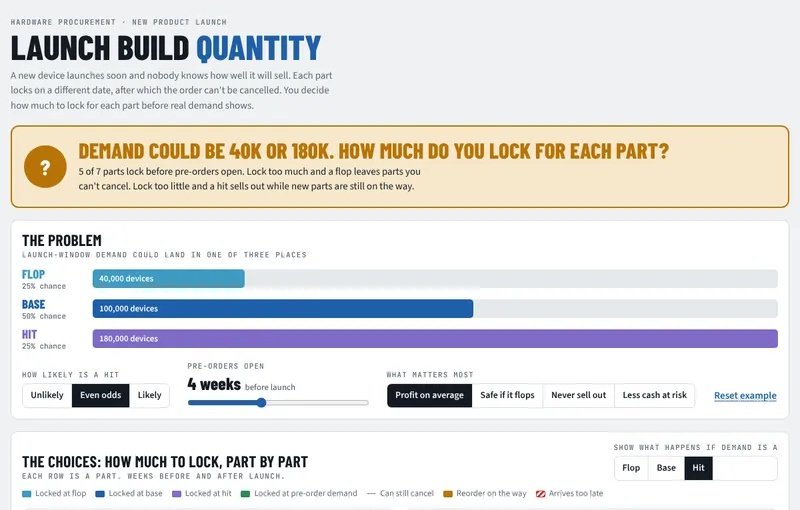
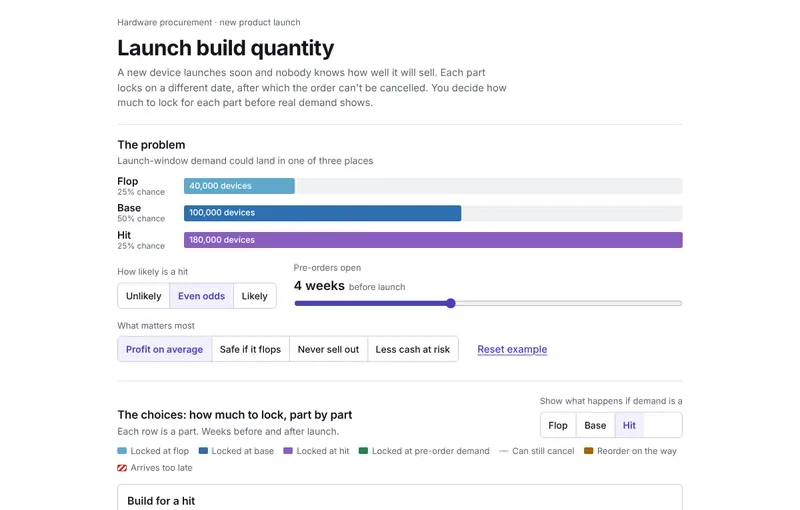
Launch build quantity: plain theme, remove top box
Claude-Session: https://claude.ai/code/session_01AxXK7Z5WHLudRwn8QagmC1

diff --git a/tools/launch-build-quantity.html b/tools/launch-build-quantity.html
@@ -9,151 +9,151 @@
 <title>Tool: Launch build quantity</title>
 <meta name="claude:viewport-fit-sides" content="cover">
 <link rel="preconnect" href="https://fonts.googleapis.com">
-<link rel="stylesheet" href="https://fonts.googleapis.com/css2?family=Barlow+Condensed:wght@600;700;800&family=Source+Sans+3:wght@400;500;600;700&family=JetBrains+Mono:wght@400;500&display=swap">
+<link rel="stylesheet" href="https://fonts.googleapis.com/css2?family=Inter:wght@400;500;600;700&display=swap">
 <style>
-/* Layout: problem (demand scenarios + key choices), then one lock-date Gantt per build plan, then the scoreboard, why, and edit tables. */
+/* Layout: one column, sections split by thin lines. The problem and key choices first, then one lock-date Gantt per plan, then the scoreboard.
+   Plain theme: one text face, 1px lines, one accent color for what is selected or can be tapped. Any other color carries data: demand levels, Gantt bars, win/lose marks. */
 :root{
-  --bg:#EEF1F3; --surface:#FFFFFF; --ink:#141B22; --muted:#5B6873; --line:#D3DAE0; --track:#E4E9ED;
-  --accent:#1F5FA8; --accent-soft:#DCE8F6;
-  --late:#C8322A; --late-soft:#F8DEDB; --warn:#B87406; --warn-soft:#F7E8CC; --ok:#2C8A55; --ok-soft:#D9EFE2;
-  --flop:#3C9BC2; --base:#1F5FA8; --hit:#7E6BC4; --exact:#2C8A55;
-  --f-display:"Barlow Condensed","Arial Narrow",Arial,sans-serif;
-  --f-body:"Source Sans 3",system-ui,-apple-system,"Segoe UI",sans-serif;
-  --f-mono:"JetBrains Mono",ui-monospace,Menlo,Consolas,monospace;
+  --bg:#FFFFFF; --surface:#FFFFFF; --ink:#15161C; --muted:#5F6370; --line:#E2E3E9; --edge:#C9CBD4; --track:#F0F1F4;
+  --accent:#4B40B8; --accent-soft:#F1F0FC;
+  /* data colors */
+  --late:#C2332B; --late-soft:#FBE3E1; --warn:#A86400; --warn-soft:#FBEACB; --ok:#1D8650; --ok-soft:#DDF2E6;
+  --flop:#5FA8C9; --base:#2F6FB0; --hit:#8A5CC2; --exact:#1D8650;
+  --font:"Inter",system-ui,-apple-system,"Segoe UI",Roboto,"Helvetica Neue",Arial,sans-serif;
 }
 @media (prefers-color-scheme: dark){:root:not([data-theme="light"]){
-  --bg:#0E1318; --surface:#161D24; --ink:#E5EBF0; --muted:#94A2AD; --line:#2A353F; --track:#1E2730;
-  --accent:#6FA8EA; --accent-soft:#1B2B40;
-  --late:#F06A5F; --late-soft:#3A1D1B; --warn:#E8A93A; --warn-soft:#3A2C14; --ok:#5CC98A; --ok-soft:#173226;
-  --flop:#5BB6DB; --base:#6FA8EA; --hit:#A08FE6; --exact:#5CC98A; color-scheme:dark}}
+  --bg:#101116; --surface:#101116; --ink:#ECEDF2; --muted:#9A9EAC; --line:#272932; --edge:#3B3E4B; --track:#1C1E26;
+  --accent:#A49CF8; --accent-soft:#201E3D;
+  --late:#F2706A; --late-soft:#3A1D1B; --warn:#EBAE45; --warn-soft:#3A2B10; --ok:#58CC8D; --ok-soft:#143323;
+  --flop:#5BB6DB; --base:#5B9BE0; --hit:#B08BE8; --exact:#2F9860; color-scheme:dark}}
 :root[data-theme="dark"]{
-  --bg:#0E1318; --surface:#161D24; --ink:#E5EBF0; --muted:#94A2AD; --line:#2A353F; --track:#1E2730;
-  --accent:#6FA8EA; --accent-soft:#1B2B40;
-  --late:#F06A5F; --late-soft:#3A1D1B; --warn:#E8A93A; --warn-soft:#3A2C14; --ok:#5CC98A; --ok-soft:#173226;
-  --flop:#5BB6DB; --base:#6FA8EA; --hit:#A08FE6; --exact:#5CC98A; color-scheme:dark}
+  --bg:#101116; --surface:#101116; --ink:#ECEDF2; --muted:#9A9EAC; --line:#272932; --edge:#3B3E4B; --track:#1C1E26;
+  --accent:#A49CF8; --accent-soft:#201E3D;
+  --late:#F2706A; --late-soft:#3A1D1B; --warn:#EBAE45; --warn-soft:#3A2B10; --ok:#58CC8D; --ok-soft:#143323;
+  --flop:#5BB6DB; --base:#5B9BE0; --hit:#B08BE8; --exact:#2F9860; color-scheme:dark}
 *{box-sizing:border-box}
-body{background:var(--bg);color:var(--ink);font-family:var(--f-body);font-size:15px;line-height:1.5}
-.wrap{max-width:1240px;margin:0 auto;padding-block:26px 56px;padding-left:max(16px,env(safe-area-inset-left,0px));padding-right:max(16px,env(safe-area-inset-right,0px));display:flex;flex-direction:column;gap:18px}
-.eyebrow{font:500 11px var(--f-mono);letter-spacing:.12em;text-transform:uppercase;color:var(--muted)}
-h1{font-family:var(--f-display);font-weight:800;font-size:clamp(32px,5.4vw,52px);line-height:.98;margin:4px 0 0;letter-spacing:-.005em;text-wrap:balance;text-transform:uppercase}
-h1 em{font-style:normal;color:var(--accent)}
-.lede{margin:8px 0 0;color:var(--muted);max-width:66ch}
-h2{font-family:var(--f-display);font-weight:700;font-size:24px;text-transform:uppercase;letter-spacing:.01em;margin:0;line-height:1.1}
-.panel{background:var(--surface);border:1px solid var(--line);border-radius:10px;padding:16px}
-button,input,select{font:inherit;color:inherit}
-button{cursor:pointer}
+body{background:var(--bg);color:var(--ink);font-family:var(--font);font-size:15px;line-height:1.5;-webkit-text-size-adjust:100%;-webkit-font-smoothing:antialiased}
+.wrap{max-width:880px;margin:0 auto;padding-block:24px 72px;padding-left:max(16px,env(safe-area-inset-left,0px));padding-right:max(16px,env(safe-area-inset-right,0px));display:flex;flex-direction:column}
+header{padding-bottom:20px}
+.eyebrow{font-size:13px;color:var(--muted)}
+h1{font-weight:700;font-size:clamp(25px,6.6vw,32px);line-height:1.15;letter-spacing:-.02em;margin:10px 0 0;text-wrap:balance}
+h1 em{font-style:normal}
+.lede{margin:8px 0 0;color:var(--muted);max-width:62ch}
+h2{font-weight:600;font-size:17px;line-height:1.25;letter-spacing:-.01em;margin:0}
+.panel{border-top:1px solid var(--line);padding-block:20px 28px;min-width:0}
+.panel .eyebrow{font-size:14px}
+button,input{font:inherit;color:inherit}
+button{cursor:pointer;-webkit-tap-highlight-color:transparent;touch-action:manipulation}
 button:focus-visible,input:focus-visible{outline:2px solid var(--accent);outline-offset:2px}
 
-.verdict{display:grid;grid-template-columns:auto minmax(0,1fr);gap:12px 18px;align-items:center;border-radius:12px;padding:18px;border:2px solid var(--vc);background:var(--vs)}
-.verdict .big{width:64px;height:64px;border-radius:50%;background:var(--vc);color:var(--surface);display:grid;place-items:center;font:800 32px var(--f-display)}
-.verdict h3{font:800 clamp(23px,3.8vw,33px)/1.04 var(--f-display);text-transform:uppercase;margin:0;color:var(--vc);text-wrap:balance}
-.verdict p{margin:4px 0 0;max-width:72ch}
-.v-warn{--vc:var(--warn);--vs:var(--warn-soft)} .v-ok{--vc:var(--ok);--vs:var(--ok-soft)}
+.verdict{display:grid;grid-template-columns:auto minmax(0,1fr);gap:12px;align-items:center;padding:14px;border:1px solid var(--ink);border-radius:6px;margin-bottom:24px}
+.verdict .big{width:40px;height:40px;border-radius:50%;background:var(--vc);color:var(--bg);display:grid;place-items:center;font-weight:700;font-size:20px}
+.verdict h3{font-weight:700;font-size:21px;line-height:1.2;letter-spacing:-.015em;margin:0;text-wrap:balance}
+.verdict p{margin:4px 0 0;font-size:14.5px;max-width:68ch}
+.v-warn{--vc:var(--warn)} .v-ok{--vc:var(--ok)}
 
 .controls{display:flex;flex-wrap:wrap;gap:16px 26px;align-items:end}
 .ctl{display:flex;flex-direction:column;gap:6px;min-width:0}
-.ctl label,.ctl .lab{font:500 11px var(--f-mono);letter-spacing:.1em;text-transform:uppercase;color:var(--muted)}
-.slide{flex:1 1 260px}
-.slide .val{font:800 26px/1 var(--f-display);color:var(--ink)}
-.slide .val small{font:500 13px var(--f-body);color:var(--muted);margin-left:6px}
+.ctl label,.ctl .lab{font-size:13px;color:var(--muted)}
+.slide{flex:1 1 240px}
+.slide .val{font-weight:600;font-size:19px;line-height:1.2}
+.slide .val small{font-weight:400;font-size:13px;color:var(--muted);margin-left:6px}
 input[type=range]{width:100%;accent-color:var(--accent);margin:0}
-.seg{display:inline-flex;flex-wrap:wrap;border:1px solid var(--line);border-radius:7px;overflow:hidden;background:var(--surface)}
-.seg button{border:0;background:transparent;padding:7px 12px;font-weight:600;font-size:14px}
-.seg button+button{border-left:1px solid var(--line)}
-.seg button[aria-pressed="true"]{background:var(--ink);color:var(--bg)}
-.reset{border:0;background:none;color:var(--accent);font-weight:600;padding:7px 2px;text-decoration:underline;text-underline-offset:3px}
+.seg{display:inline-flex;flex-wrap:wrap;border:1px solid var(--edge);border-radius:6px;overflow:hidden}
+.seg button{border:0;background:transparent;padding:8px 12px;font-weight:500;font-size:14px}
+.seg button+button{border-left:1px solid var(--edge)}
+.seg button[aria-pressed="true"]{background:var(--accent-soft);color:var(--accent);font-weight:600}
+.reset{border:0;background:none;color:var(--accent);font-weight:500;padding:8px 2px;text-decoration:underline;text-underline-offset:3px}
 
 /* demand scenarios */
 .dem{display:flex;flex-direction:column;gap:8px}
-.dr{display:grid;grid-template-columns:96px minmax(0,1fr);gap:10px;align-items:center}
-.dr .nm{display:flex;flex-direction:column;line-height:1.1}
-.dr .nm b{font:800 19px var(--f-display);text-transform:uppercase;color:var(--sc)}
-.dr .nm small{font:500 11px var(--f-mono);color:var(--muted)}
-.dbar{height:28px;border-radius:5px;background:var(--sc);display:flex;align-items:center;padding-left:10px;color:var(--surface);font:600 13px var(--f-body);white-space:nowrap;min-width:84px}
-.dtrack{background:var(--track);border-radius:5px}
+.dr{display:grid;grid-template-columns:90px minmax(0,1fr);gap:10px;align-items:center}
+.dr .nm{display:flex;flex-direction:column;line-height:1.2}
+.dr .nm b{font-weight:600;font-size:15px}
+.dr .nm small{font-size:12px;color:var(--muted)}
+.dbar{height:24px;border-radius:3px;background:var(--sc);display:flex;align-items:center;padding-left:8px;color:#fff;font-weight:500;font-size:12.5px;white-space:nowrap;min-width:84px}
+.dtrack{background:var(--track);border-radius:3px}
 
 /* scoreboard */
 .sbwrap{overflow-x:auto;margin-top:12px}
 .sb{display:grid;grid-template-columns:minmax(110px,1.1fr) repeat(4,minmax(96px,1fr));min-width:520px}
-.sb > div{padding:9px 8px;border-bottom:1px solid var(--track);display:flex;align-items:center;gap:8px;min-width:0}
-.sb .hd{flex-direction:column;align-items:flex-start;gap:2px;border-bottom:1px solid var(--line);padding-bottom:10px}
-.sb .hd b{font:700 17px/1.05 var(--f-display);text-transform:uppercase;letter-spacing:.01em}
-.sb .hd .wins{font:600 11px var(--f-mono);color:var(--muted)}
-.sb .hd.pick{background:var(--accent-soft);border-radius:8px 8px 0 0}
-.sb .rl{font-weight:600;font-size:14px;line-height:1.2;flex-direction:column;align-items:flex-start;gap:1px}
-.sb .rl small{display:block;font:400 11px var(--f-mono);color:var(--muted)}
+.sb > div{padding:9px 8px;border-bottom:1px solid var(--line);display:flex;align-items:center;gap:8px;min-width:0}
+.sb .hd{flex-direction:column;align-items:flex-start;gap:2px;border-bottom:1px solid var(--edge);padding-bottom:10px}
+.sb .hd b{font-weight:600;font-size:14px;line-height:1.2}
+.sb .hd .wins{font-size:12px;color:var(--muted)}
+.sb .hd.pick{background:var(--accent-soft);border-radius:6px 6px 0 0}
+.sb .rl{font-weight:500;font-size:14px;line-height:1.2;flex-direction:column;align-items:flex-start;gap:1px}
+.sb .rl small{display:block;font-weight:400;font-size:12px;color:var(--muted)}
 .sb .c.pick{background:var(--accent-soft)}
-.ic{flex:none;width:22px;height:22px;border-radius:50%;display:grid;place-items:center;font-size:13px;font-weight:800;color:var(--surface)}
+.ic{flex:none;width:20px;height:20px;border-radius:50%;display:grid;place-items:center;font-size:12px;font-weight:700;color:var(--bg)}
 .ic.win{background:var(--ok)} .ic.lose{background:var(--late)} .ic.mid{background:var(--track);color:var(--muted)}
-.cv{font:500 13px var(--f-mono);font-variant-numeric:tabular-nums;white-space:nowrap}
+.cv{font-size:13.5px;font-variant-numeric:tabular-nums;white-space:nowrap}
 .cv.lose{color:var(--late)} .cv.win{color:var(--ok);font-weight:600}
-.pickpill{font:700 9.5px var(--f-mono);letter-spacing:.08em;text-transform:uppercase;padding:2px 6px;border-radius:3px;background:var(--accent);color:var(--surface)}
+.pickpill{font-weight:600;font-size:11px;padding:1px 7px;border-radius:4px;border:1px solid var(--accent);color:var(--accent)}
 
 /* gantts */
-.ghead{display:flex;flex-wrap:wrap;justify-content:space-between;gap:8px 16px;align-items:end}
-.gantts{display:grid;grid-template-columns:repeat(2,minmax(0,1fr));gap:12px;margin-top:12px}
-.gc{border:1px solid var(--line);border-radius:10px;padding:13px 14px;display:flex;flex-direction:column;gap:8px;min-width:0;background:var(--surface)}
-.gc.pick{border:2px solid var(--accent);padding:12px 13px}
-.gc h3{margin:0;font:800 21px/1.05 var(--f-display);text-transform:uppercase;display:flex;align-items:center;gap:8px;flex-wrap:wrap}
-.gc .how{margin:0;font-size:13.5px;color:var(--muted);line-height:1.35}
-.gt{--lab:132px;display:flex;flex-direction:column}
-.gr{display:grid;grid-template-columns:var(--lab) minmax(0,1fr);align-items:center;min-height:36px;border-bottom:1px solid var(--track)}
-.gr.ax{min-height:20px;border-bottom:1px solid var(--line)}
-.gl{padding-right:8px;min-width:0;display:flex;flex-direction:column;line-height:1.15}
+.ghead{display:flex;flex-wrap:wrap;justify-content:space-between;gap:10px 16px;align-items:end}
+.gantts{display:flex;flex-direction:column;gap:10px;margin-top:14px}
+.gc{border:1px solid var(--edge);border-radius:6px;padding:14px;display:flex;flex-direction:column;gap:8px;min-width:0}
+.gc.pick{border-color:var(--accent);box-shadow:inset 0 0 0 1px var(--accent)}
+.gc h3{margin:0;font-weight:600;font-size:16px;line-height:1.25;display:flex;align-items:center;gap:8px;flex-wrap:wrap}
+.gc .how{margin:0;font-size:14px;color:var(--muted);line-height:1.4}
+.gt{--lab:150px;display:flex;flex-direction:column}
+.gr{display:grid;grid-template-columns:var(--lab) minmax(0,1fr);align-items:center;min-height:38px;border-bottom:1px solid var(--line)}
+.gr.ax{min-height:20px;border-bottom:1px solid var(--edge)}
+.gl{padding-right:8px;min-width:0;display:flex;flex-direction:column;line-height:1.2}
 .gl b{font-size:13px;font-weight:600;white-space:nowrap;overflow:hidden;text-overflow:ellipsis}
-.gl small{font:500 10.5px var(--f-mono);color:var(--muted);white-space:nowrap;overflow:hidden;text-overflow:ellipsis}
-.gl small.bad{color:var(--late);font-weight:600} .gl small.good{color:var(--ok);font-weight:600}
+.gl small{font-size:11.5px;color:var(--muted);white-space:nowrap;overflow:hidden;text-overflow:ellipsis}
+.gl small.bad{color:var(--late);font-weight:500} .gl small.good{color:var(--ok);font-weight:500}
 .gtr{position:relative;height:100%;min-height:inherit}
-.lwin{position:absolute;top:0;bottom:-1px;background:var(--track);opacity:.6}
-.gb{position:absolute;top:50%;height:16px;transform:translateY(-50%);border-radius:3px;display:flex;align-items:center;justify-content:center;font:600 10px var(--f-mono);color:var(--surface);white-space:nowrap;overflow:hidden}
-.gb.open{height:6px;background:transparent;border:1px dashed var(--muted);opacity:.6}
+.lwin{position:absolute;top:0;bottom:-1px;background:var(--track)}
+.gb{position:absolute;top:50%;height:14px;transform:translateY(-50%);border-radius:2px;display:flex;align-items:center;justify-content:center;font-size:10px;font-weight:500;color:#fff;white-space:nowrap;overflow:hidden}
+.gb.open{height:0;background:transparent;border-top:1px dashed var(--edge);border-radius:0}
 .gb.lock{background:var(--lc)}
-.gb.chase{background:var(--warn);color:var(--surface)}
-.gb.toolate{background:repeating-linear-gradient(135deg,var(--late) 0 3px,transparent 3px 6px);border:1px solid var(--late)}
+.gb.chase{background:var(--warn)}
+.gb.toolate{background:repeating-linear-gradient(135deg,var(--late) 0 2px,transparent 2px 5px);border:1px solid var(--late)}
 .vl{position:absolute;top:0;bottom:-1px;z-index:3}
-.vl.pre{border-left:2px dashed var(--exact)}
-.vl.launch{border-left:2px solid var(--ink)}
-.axl{position:absolute;top:3px;font:600 10px var(--f-mono);white-space:nowrap;color:var(--muted);transform:translateX(-50%)}
-.axl.pre{color:var(--surface);background:var(--exact);padding:0 4px;border-radius:3px}
-.axl.la{color:var(--bg);background:var(--ink);padding:0 4px;border-radius:3px}
-.gfoot{display:flex;justify-content:space-between;align-items:baseline;gap:8px;border-top:1px solid var(--track);padding-top:7px}
-.gfoot span{font:500 11px var(--f-mono);color:var(--muted);text-transform:uppercase;letter-spacing:.06em}
-.gfoot b{font:800 20px/1 var(--f-display)}
+.vl.pre{border-left:1px dashed var(--exact)}
+.vl.launch{border-left:1px solid var(--ink)}
+.axl{position:absolute;top:2px;font-size:11px;white-space:nowrap;color:var(--muted);transform:translateX(-50%)}
+.axl.pre{color:var(--exact);font-weight:600}
+.axl.la{color:var(--ink);font-weight:600}
+.gfoot{display:flex;justify-content:space-between;align-items:baseline;gap:8px;padding-top:4px}
+.gfoot span{font-size:13px;color:var(--muted)}
+.gfoot b{font-weight:700;font-size:18px;font-variant-numeric:tabular-nums}
 .gfoot b.bad{color:var(--late)} .gfoot b.good{color:var(--ok)}
 .keys{display:flex;flex-wrap:wrap;gap:6px 14px;font-size:13px;color:var(--muted)}
 .keys span{display:inline-flex;align-items:center;gap:6px}
 .sw{width:14px;height:10px;border-radius:2px;display:inline-block}
-.pickline{margin:10px 0 0;font-size:15px}
-.pickline b{color:var(--accent)}
+.pickline{margin:12px 0 0;font-size:15px}
+.pickline b{color:var(--accent);font-weight:600}
 
 .tblwrap{overflow-x:auto}
-table{border-collapse:collapse;width:100%;min-width:560px;font-size:14px}
-th{font:500 11px var(--f-mono);letter-spacing:.08em;text-transform:uppercase;color:var(--muted);text-align:left;padding:6px 8px;border-bottom:1px solid var(--line)}
-td{padding:5px 8px;border-bottom:1px solid var(--track);font-variant-numeric:tabular-nums}
-td input[type=number]{width:90px;border:1px solid var(--line);border-radius:5px;background:var(--bg);padding:4px 6px;font:500 13px var(--f-mono)}
-.why{display:grid;grid-template-columns:repeat(auto-fit,minmax(240px,1fr));gap:12px 22px;margin-top:10px}
-.why p{margin:0;max-width:60ch}
-.why b{display:block;font-family:var(--f-display);text-transform:uppercase;font-size:17px;letter-spacing:.02em}
-.foot{font-size:12.5px;color:var(--muted);margin:0}
+table{border-collapse:collapse;width:100%;min-width:520px;font-size:14px}
+th{font-weight:500;font-size:12.5px;color:var(--muted);text-align:left;padding:6px 8px;border-bottom:1px solid var(--edge)}
+td{padding:5px 8px;border-bottom:1px solid var(--line);font-variant-numeric:tabular-nums}
+td input[type=number]{width:90px;border:1px solid var(--edge);border-radius:4px;background:transparent;padding:4px 6px;font-size:14px}
+.why{display:grid;grid-template-columns:repeat(auto-fit,minmax(240px,1fr));gap:14px 24px;margin-top:12px}
+.why p{margin:0;max-width:60ch;font-size:14.5px}
+.why b{display:block;font-weight:600}
+.foot{font-size:12.5px;color:var(--muted);margin:0;border-top:1px solid var(--line);padding-top:16px}
 
-@media (max-width:900px){.gantts{grid-template-columns:minmax(0,1fr)}}
 @media (max-width:640px){
-  .verdict{grid-template-columns:minmax(0,1fr)}
-  .verdict .big{width:46px;height:46px;font-size:24px}
+  .verdict h3{font-size:19px}
   .gt{--lab:108px}
-  .gc{padding:11px} .gc.pick{padding:10px}
+  .gc{padding:11px}
   .gb{font-size:0}
-  .dr{grid-template-columns:78px minmax(0,1fr)}
+  .dr{grid-template-columns:72px minmax(0,1fr)}
   .sb{grid-template-columns:74px repeat(4,minmax(0,1fr));min-width:0}
-  .sb .hd b{font-size:14px}
-  .sb .hd .wins{font-size:9.5px}
+  .sb .hd b{font-size:12.5px}
+  .sb .hd .wins{font-size:10.5px}
   .sb .rl{font-size:12.5px}
   .sb .rl small{display:none}
   .sb .c{flex-direction:column;align-items:flex-start;gap:3px}
   .cv{font-size:11.5px;white-space:normal;line-height:1.15}
   .sb > div{padding:8px 4px}
   .ic{width:18px;height:18px;font-size:11px}
-  .pickpill{font-size:8.5px;padding:1px 4px}
+  .pickpill{font-size:10px;padding:0 4px}
 }
 @media (prefers-reduced-motion:no-preference){.gb,.dbar{transition:width .25s ease,left .25s ease}}
 </style>
@@ -161,15 +161,15 @@ td input[type=number]{width:90px;border:1px solid var(--line);border-radius:5px;
 <div class="wrap">
   <header>
     <div class="eyebrow">Hardware procurement · new product launch</div>
-    <h1>Launch build <em>quantity</em></h1>
+    <h1>Launch build quantity</h1>
     <p class="lede">A new device launches soon and nobody knows how well it will sell. Each part locks on a different date, after which the order can't be cancelled. You decide how much to lock for each part before real demand shows.</p>
   </header>
 
-  <section id="verdict" class="verdict v-warn" aria-live="polite"></section>
+  <section id="verdict" class="verdict v-warn" hidden></section>
 
   <section class="panel" aria-label="The problem">
     <h2>The problem</h2>
-    <div class="eyebrow" style="margin:2px 0 10px">Launch-window demand could land in one of three places</div>
+    <div class="eyebrow" style="margin:2px 0 12px">Launch-window demand could land in one of three places</div>
     <div class="dem" id="dem"></div>
     <div class="controls" style="margin-top:16px">
       <div class="ctl">
@@ -436,7 +436,6 @@ document.addEventListener('click',e=>{const b=e.target.closest('button');if(!b)r
   else if(b.id==='reset'){reset();renderTables();render();}});
 renderTables();render();
 </script>
-
 
 <a class="pf-back" href="../index.html" aria-label="Back to all work">&larr; All work</a>
 <style>.pf-back{position:fixed;z-index:9999;left:calc(12px + env(safe-area-inset-left,0px));bottom:calc(12px + env(safe-area-inset-bottom,0px));font:600 13px/1 "Archivo",Arial,sans-serif;letter-spacing:.02em;text-decoration:none;color:#fff;background:rgba(21,24,28,.86);padding:10px 14px;border-radius:999px;box-shadow:0 2px 10px rgba(0,0,0,.25)}.pf-back:hover,.pf-back:focus-visible{background:#15181C;outline:2px solid #E5A000;outline-offset:2px}</style>
